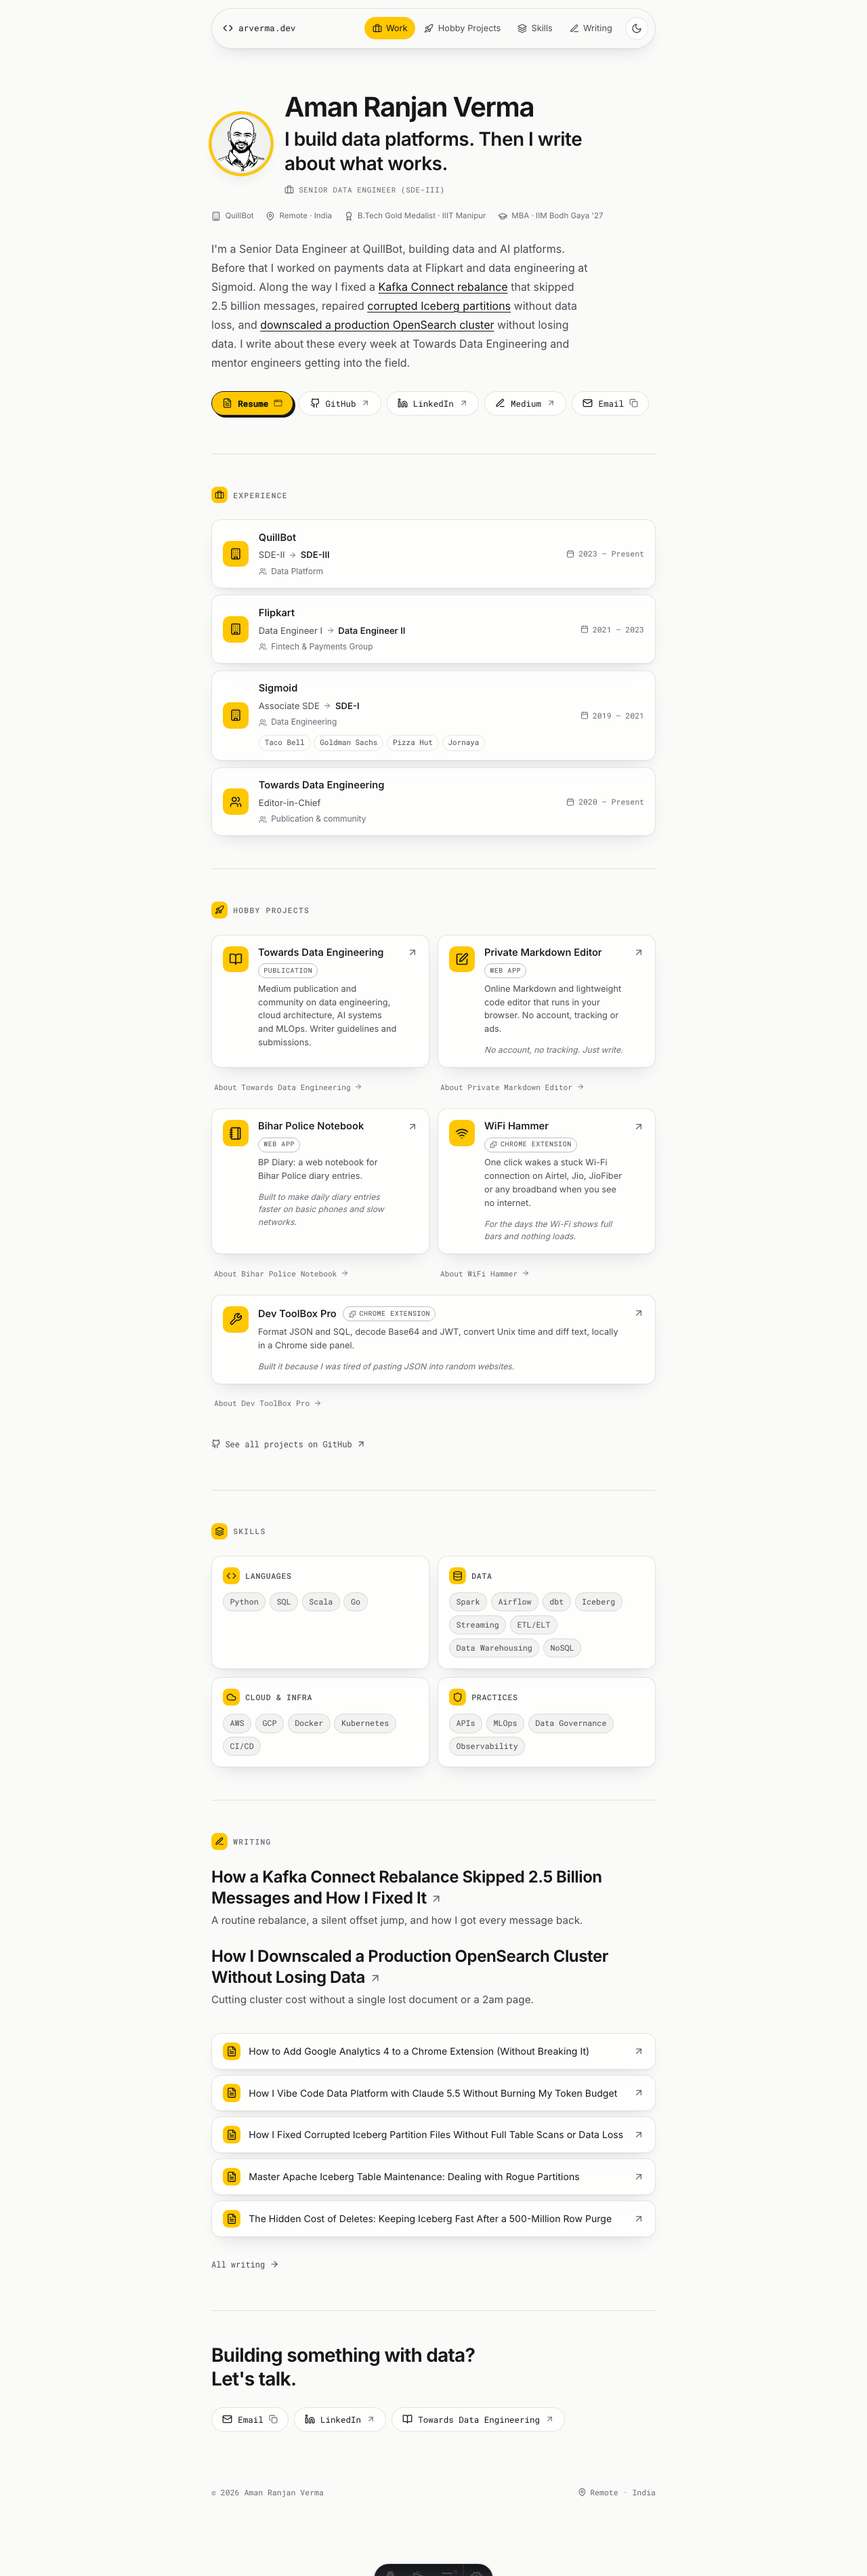
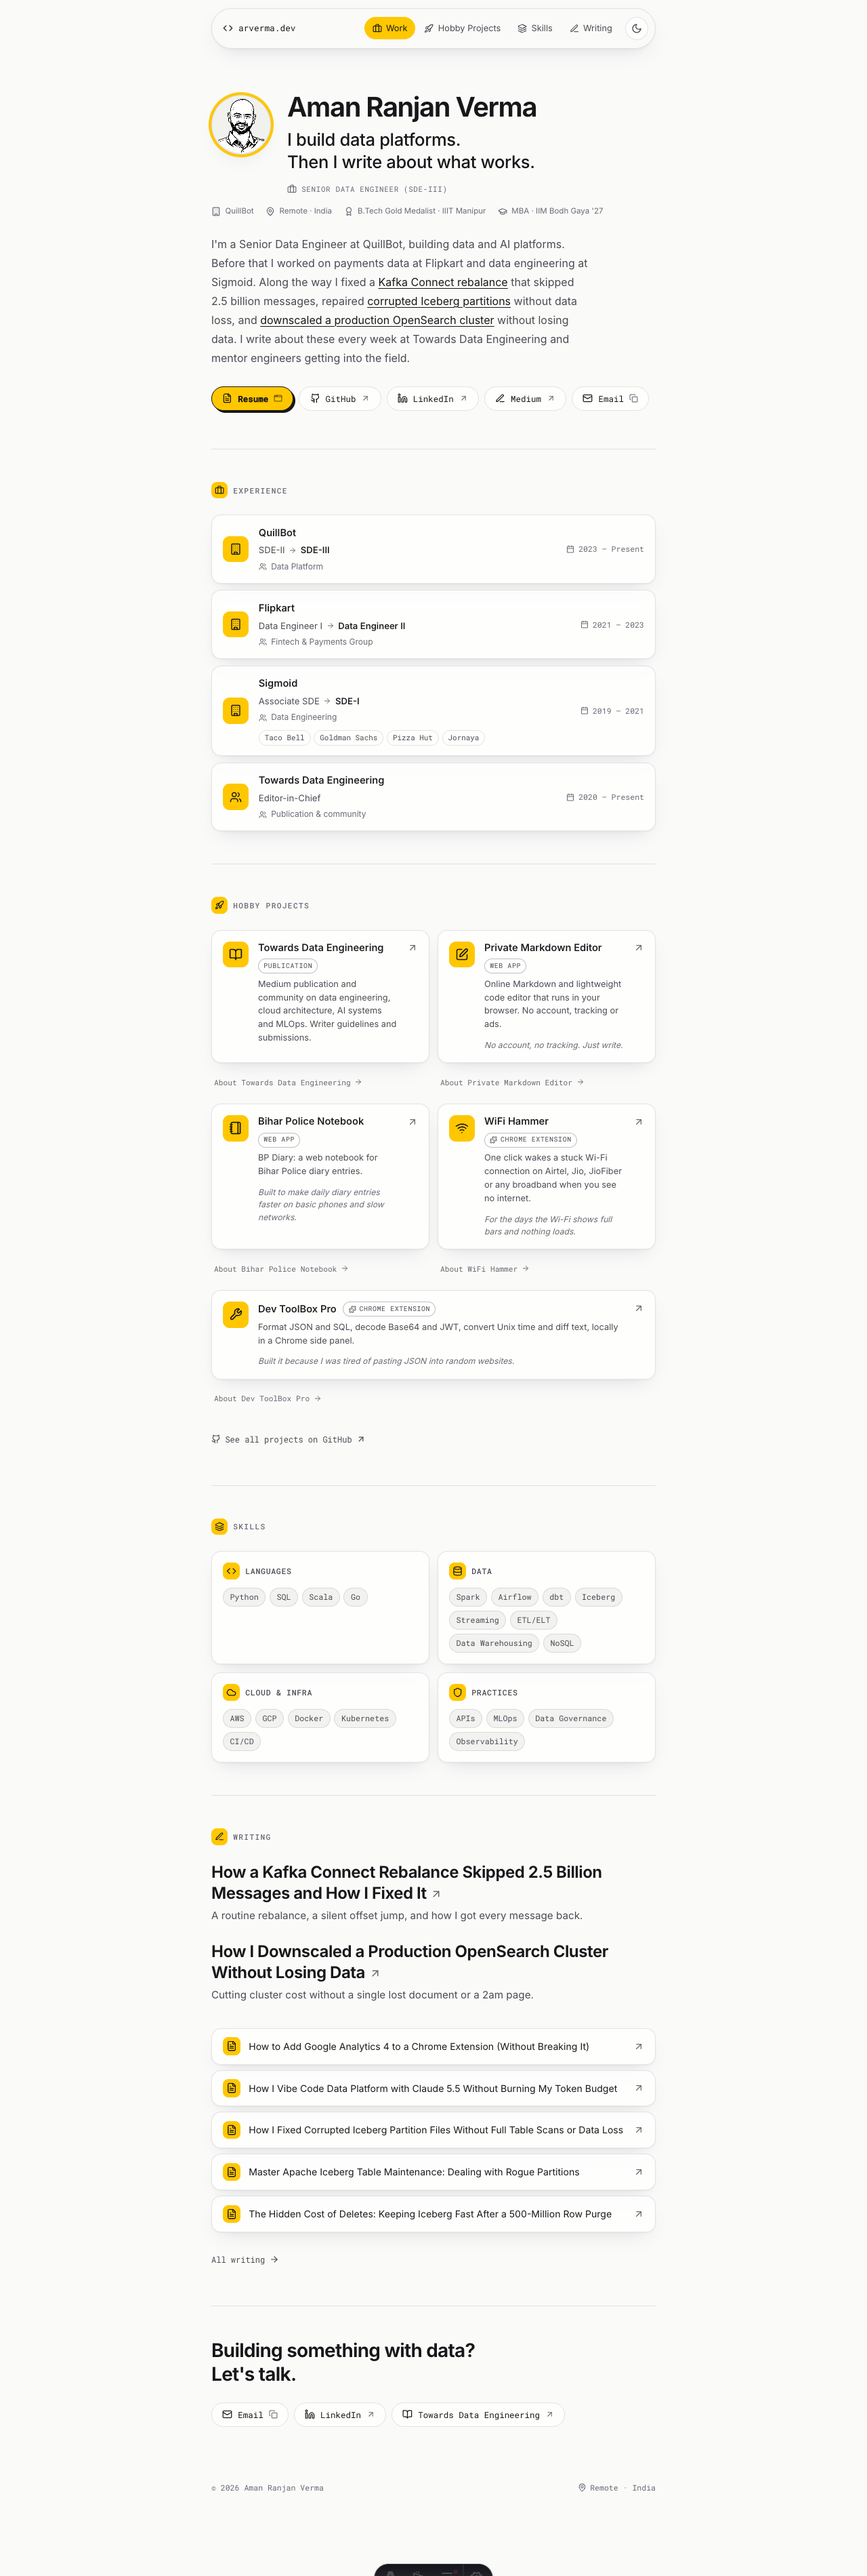
fix: calmer hero hierarchy (lighter hook, sentence-aware wrap, tighter spacing)

diff --git a/src/styles/global.css b/src/styles/global.css
@@ -161,13 +161,14 @@ a:hover { color: var(--ink); }
   padding-block: 4rem 3.5rem;
   border-bottom: 1px solid var(--rule);
 }
-.hero-top { display: flex; align-items: center; gap: 1.25rem; margin-bottom: 1.25rem; }
+.hero-top { display: flex; align-items: flex-start; gap: 1.5rem; margin-bottom: 0.85rem; }
 .hero-avatar {
   width: 5.5rem;
   height: 5.5rem;
   border-radius: 50%;
   object-fit: cover;
   background: var(--bg-2);
+  margin-top: 0.3rem;
   padding: 2px;
   border: 1px solid var(--rule);
   box-shadow: 0 0 0 4px var(--brand), var(--shadow);
@@ -182,17 +183,17 @@ a:hover { color: var(--ink); }
   -webkit-background-clip: text;
   background-clip: text;
   -webkit-text-fill-color: transparent;
-  margin-bottom: 0.45rem;
+  margin-bottom: 0.6rem;
 }
 .hero-hook {
-  font-size: clamp(1.4rem, 5vw, 1.75rem);
-  font-weight: 600;
-  letter-spacing: -0.02em;
+  font-size: clamp(1.25rem, 4.4vw, 1.6rem);
+  font-weight: 500;
+  letter-spacing: -0.015em;
   line-height: 1.3;
   color: var(--ink);
-  max-width: 26ch;
-  margin-bottom: 0.7rem;
+  margin-bottom: 0.9rem;
 }
+.hero-hook span { display: inline-block; }
 .hero-role {
   display: flex;
   align-items: center;
